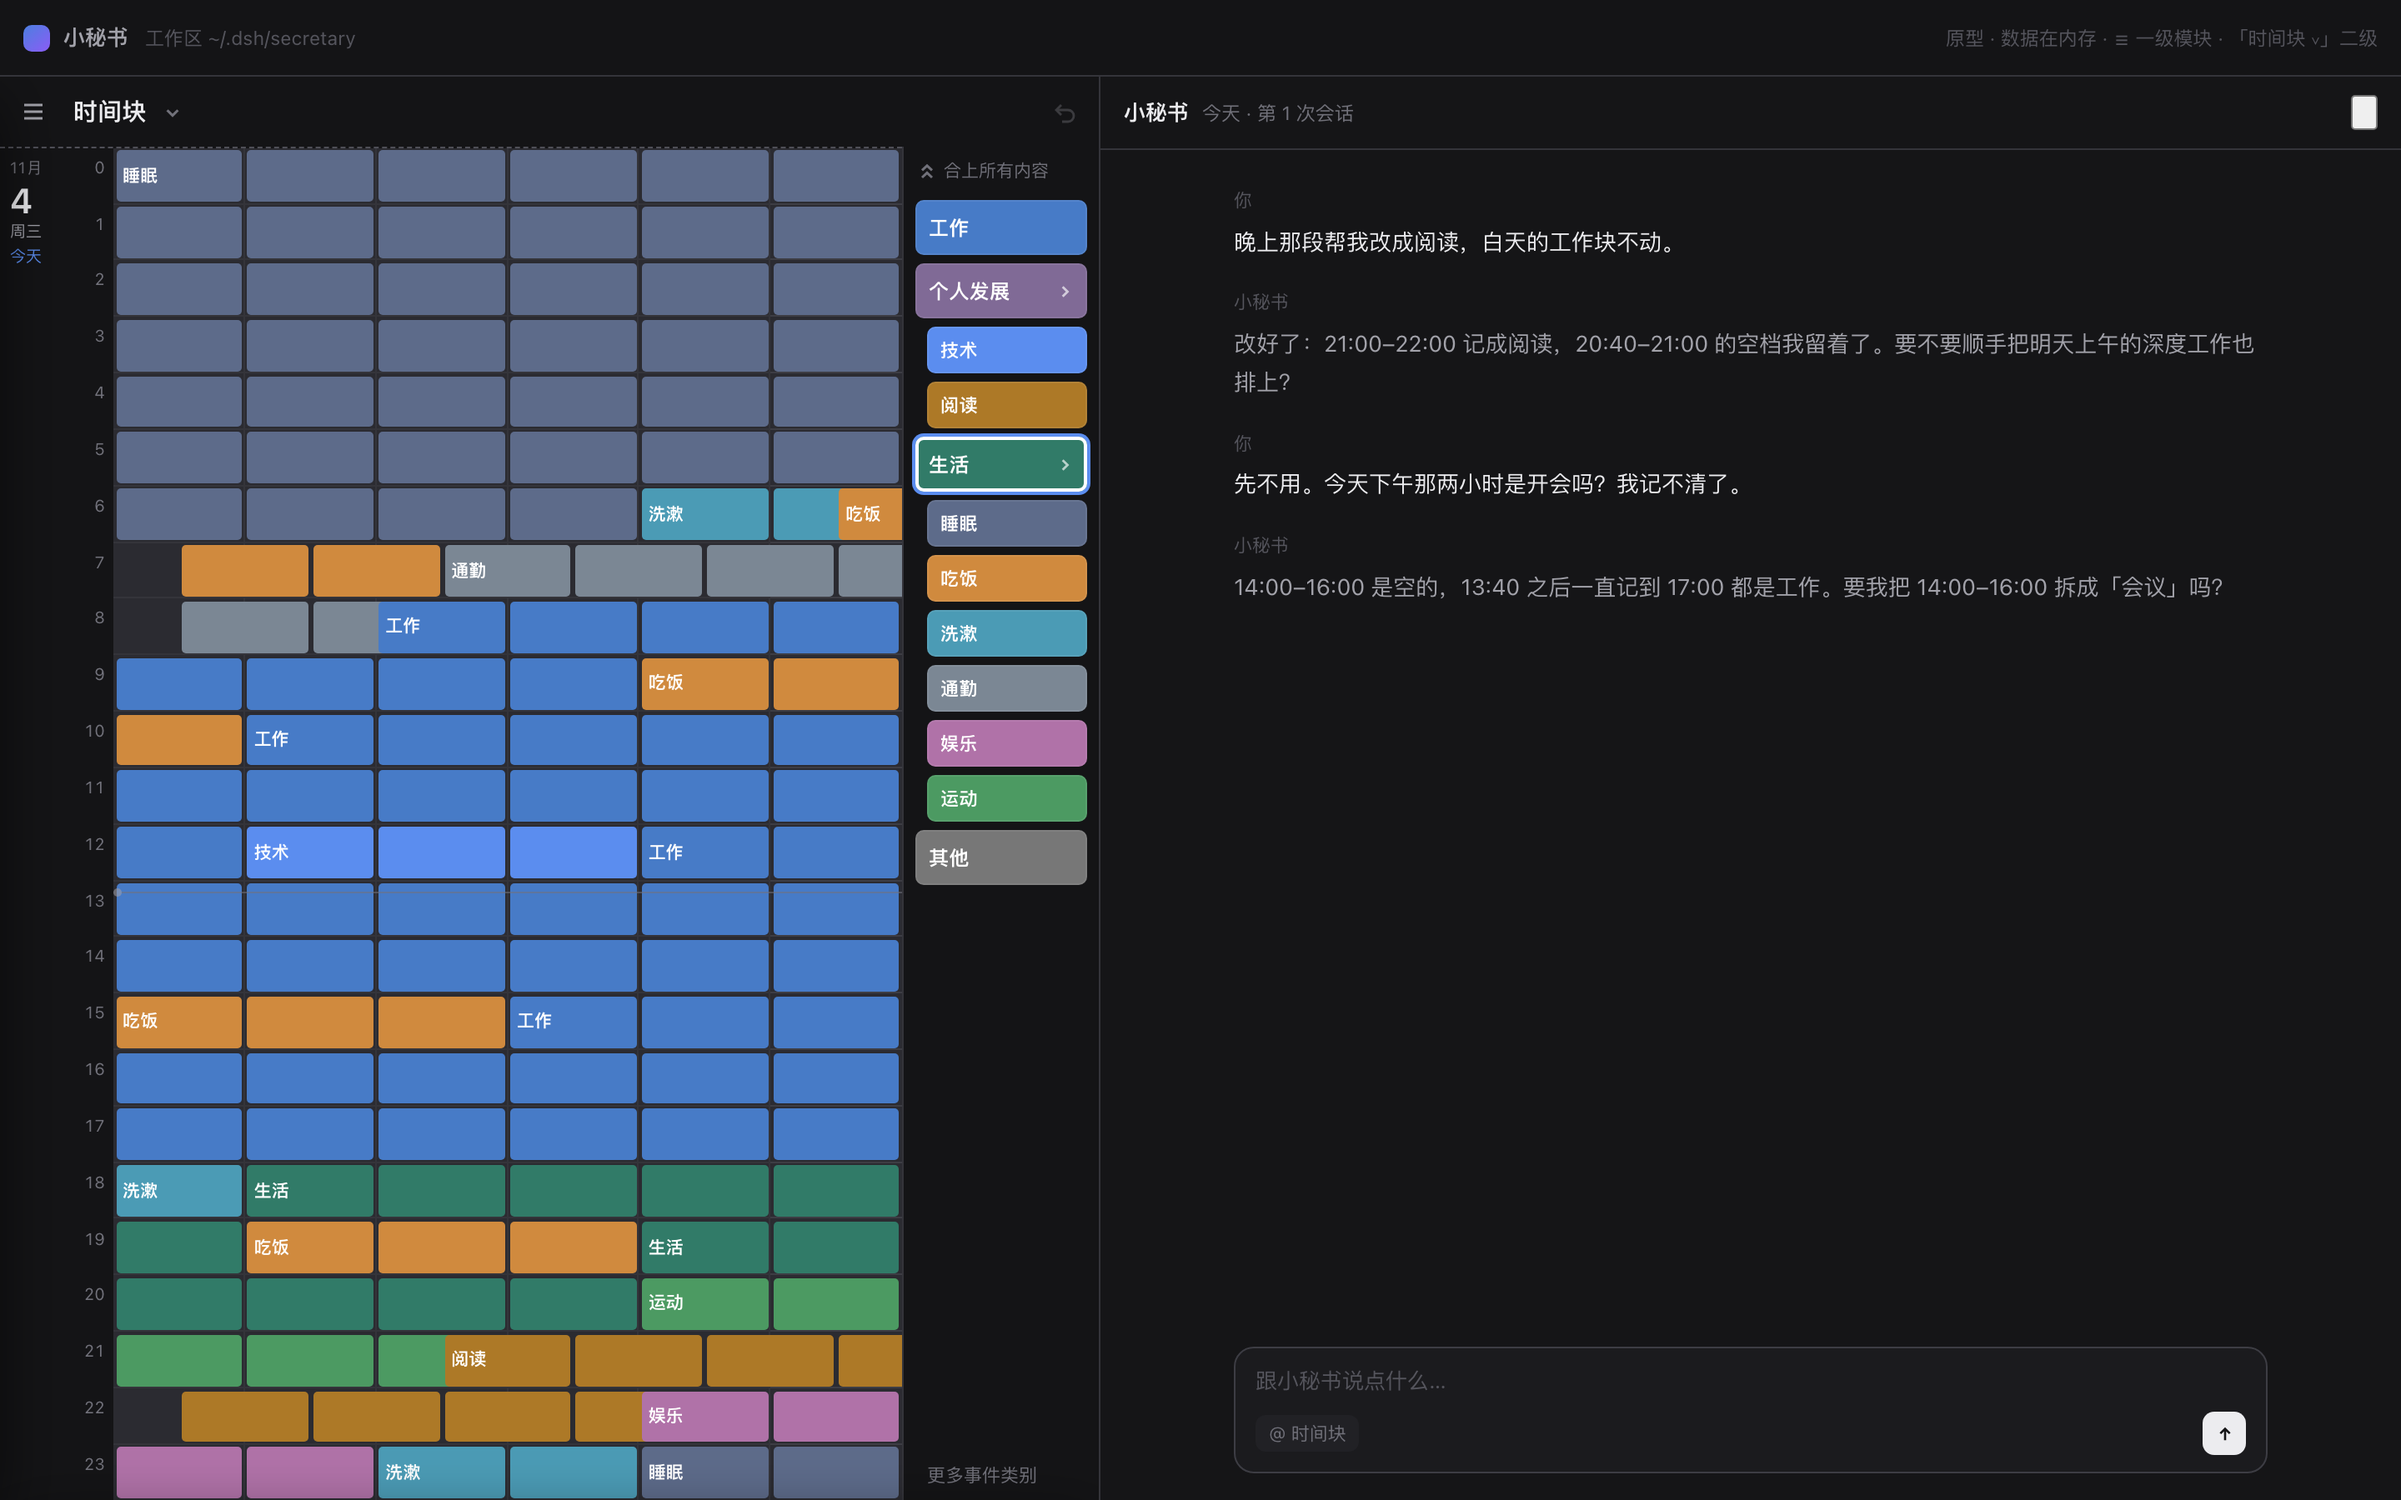
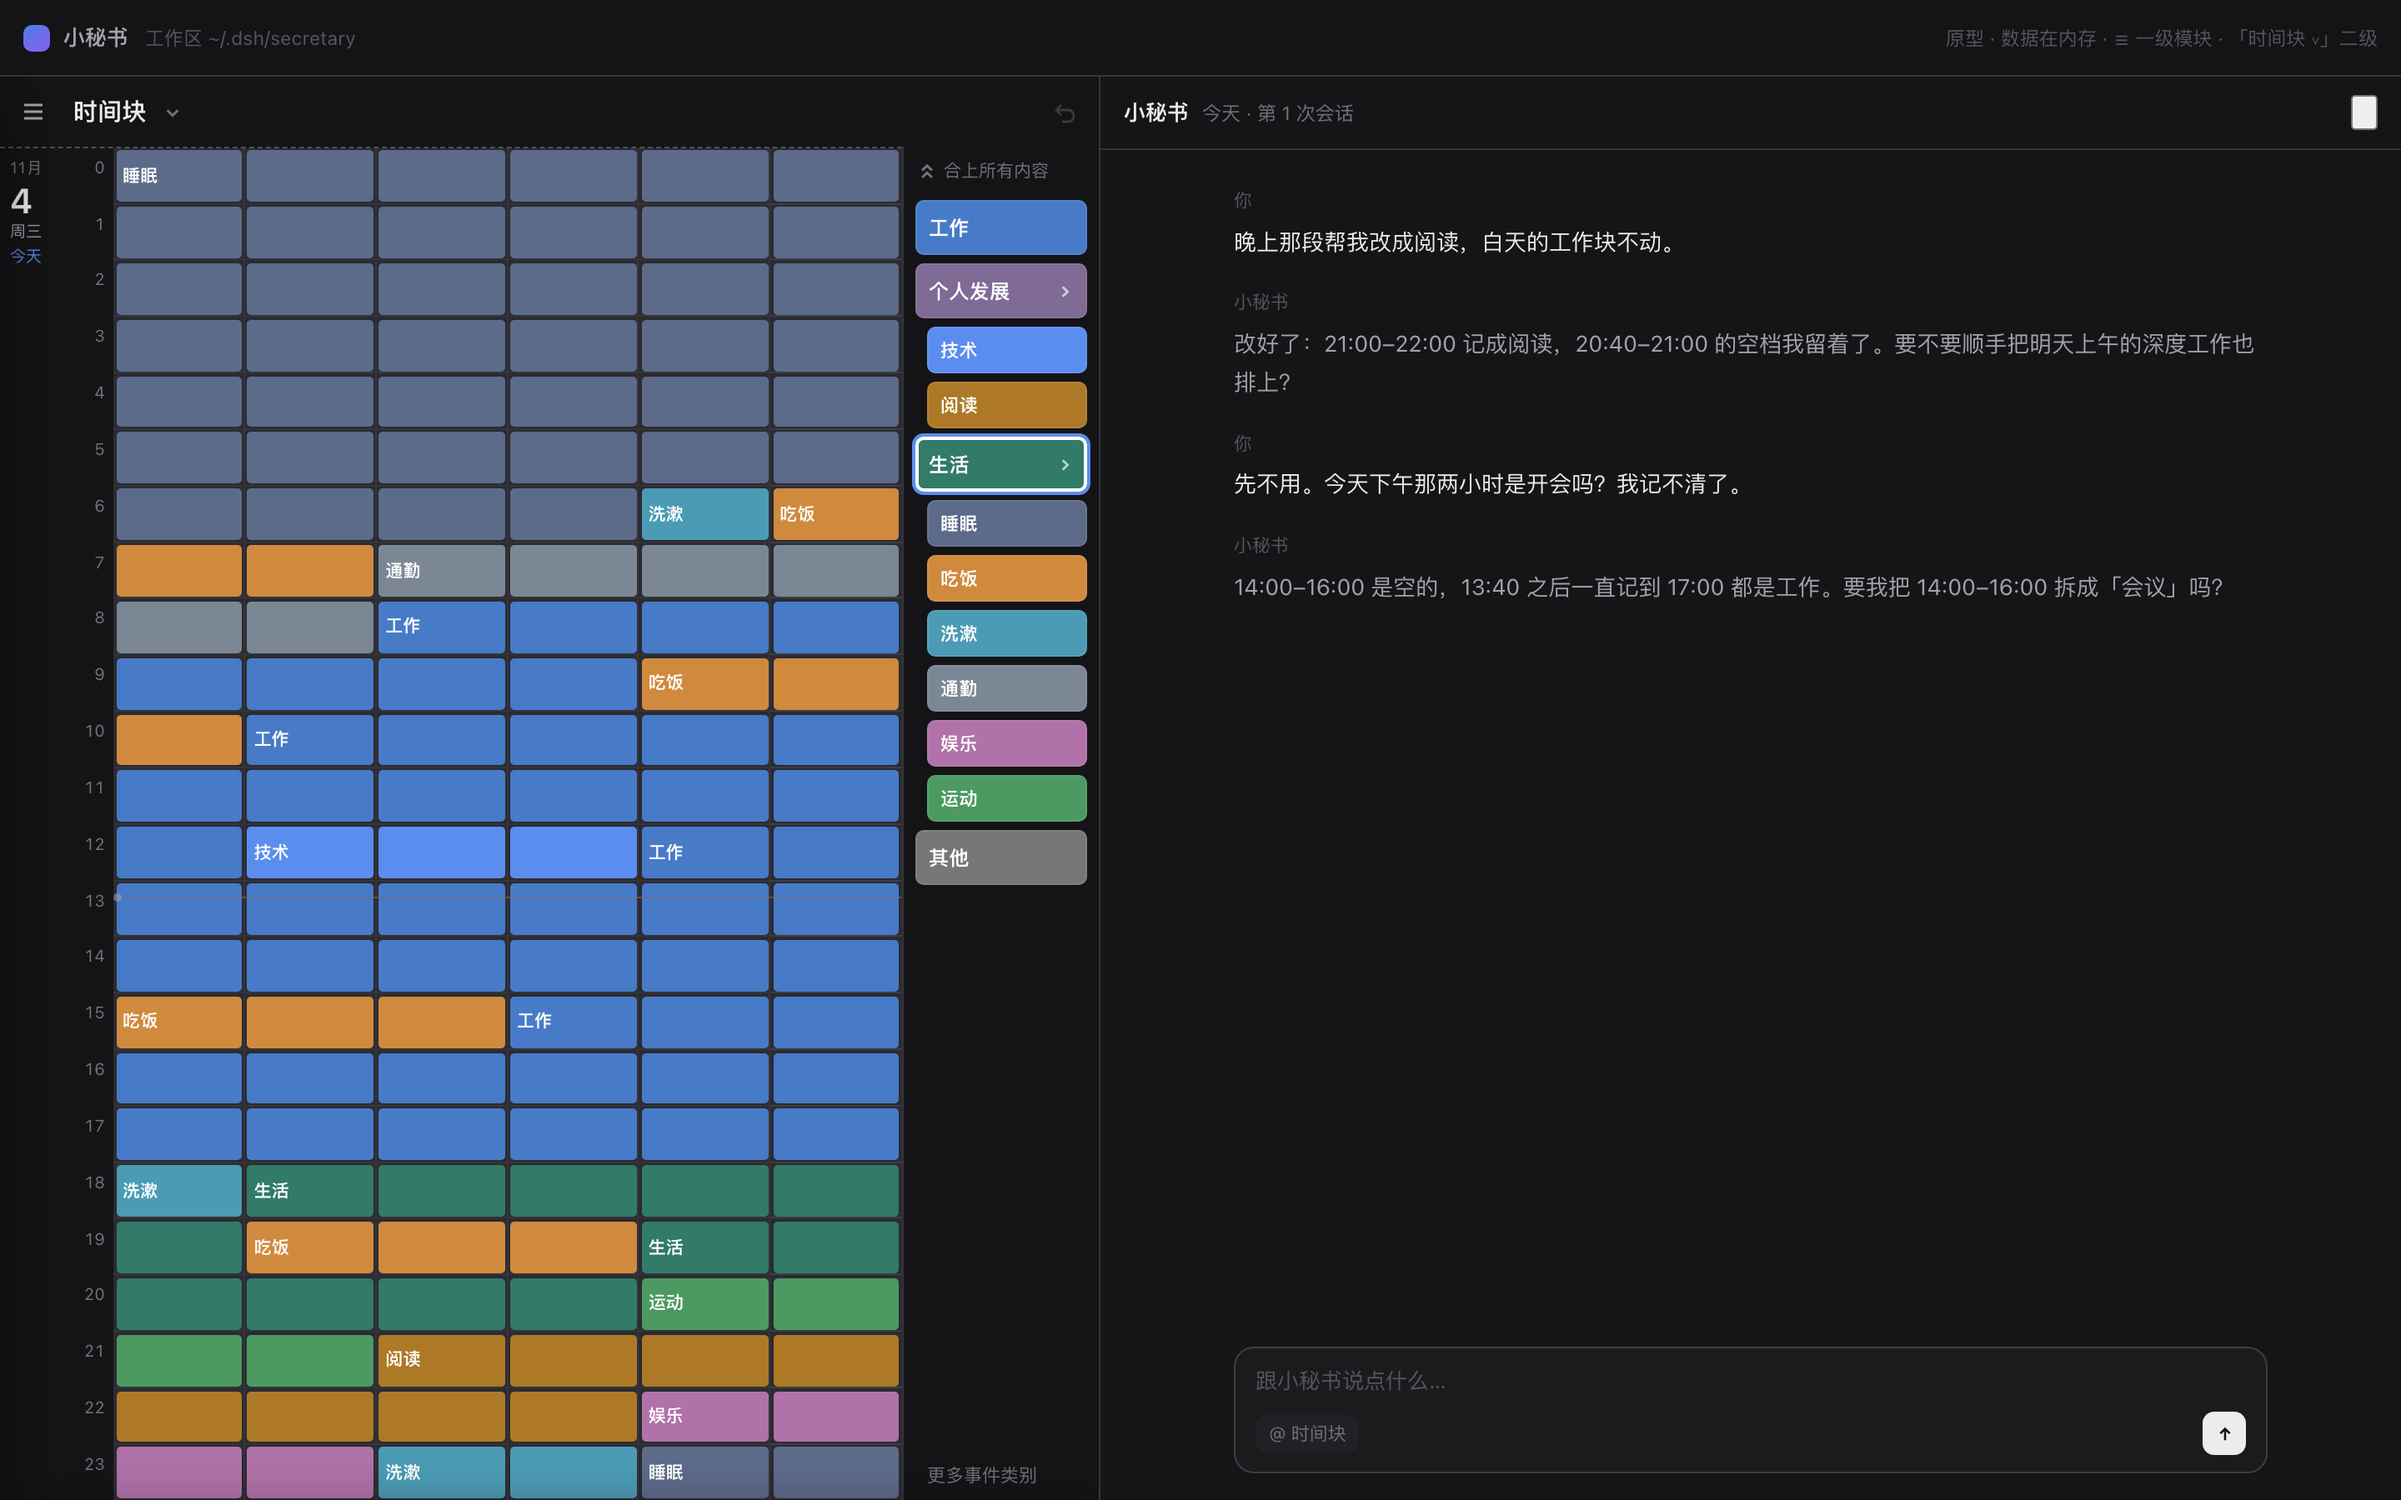
design: snap blocks to whole 10-minute cells so no half cells or split colours

diff --git a/design/time-block-rail.html b/design/time-block-rail.html
@@ -476,7 +476,10 @@ const DAY_LIST = [];
 for (let off = -2; off <= 4; off++) DAY_LIST.push(dayKey(off));
 
 let seq = 500;
-const mk = (day, start, end, tagId, layer = 'actual', note = '') => ({ id: ++seq, day, start, end, tagId, layer, note });
+const snapDown = m => Math.floor(m / RN) * RN;
+const snapUp = m => Math.ceil(m / RN) * RN;
+const mk = (day, start, end, tagId, layer = 'actual', note = '') =>
+  ({ id: ++seq, day, start: snapDown(start), end: snapUp(end), tagId, layer, note });
 
 const state = {
   view: 'time', layer: 'actual', tagId: 5,
@@ -577,7 +580,8 @@ function renderBlocks(layer) {
     if (!dayEl) return;
     const host = dayEl.querySelector('.blocks');
     let first = true;
-    for (let m = r.start; m < r.end; m += RN) {
+    const from = snapDown(r.start), to = snapUp(r.end);
+    for (let m = from; m < to; m += RN) {
       const h = Math.floor(m / 60), q = (m % 60) / RN;
       const el = document.createElement('div');
       el.className = 'blk';
@@ -758,7 +762,7 @@ function assign(tagId) {
     const cur = recordIn(day, min, layer);
     if (cur && cur.tagId === tagId) return;
     if (cur) removeSlot(cur, min);
-    state.records.push({ id: ++seq, day, start: min, end: min + RN, tagId, layer, note: '' });
+    state.records.push({ id: ++seq, day, start: snapDown(min), end: snapUp(min) + RN - RN, tagId, layer, note: '' });
   });
   merge(layer);
   state.selected = new Set();
@@ -904,11 +908,11 @@ function openSheet(id) {
 }
 $('#stepStart').addEventListener('click', () => {
   const r = state.records.find(x => x.id === state.sheetId);
-  if (r && r.end - r.start > RN) { r.start += RN; openSheet(r.id); refresh(); }
+  if (r && r.end - r.start > RN) { r.start = snapDown(r.start + RN); openSheet(r.id); refresh(); }
 });
 $('#stepEnd').addEventListener('click', () => {
   const r = state.records.find(x => x.id === state.sheetId);
-  if (r && r.end + RN <= 1440) { r.end += RN; openSheet(r.id); refresh(); }
+  if (r && r.end + RN <= 1440) { r.end = snapUp(r.end + RN); openSheet(r.id); refresh(); }
 });
 $('#sheetNote').addEventListener('input', e => {
   const r = state.records.find(x => x.id === state.sheetId);

diff --git a/design/time-block-rail-brief.md b/design/time-block-rail-brief.md
@@ -64,6 +64,12 @@
 - 实测：视口 1200 → 46.3px/行；900 → 33.8；760 → 28；640 → 23；520 → 固定 22px + 滚动。每档 `一天高度 == 画布可视高度`。
 - DSH 侧：Web 外壳 `AppFrame` 只有 `min-height: 0`，桌面端主窗口在 `app.asar` 里没找到最小尺寸设置（只有欢迎页/登录页的固定 720×760 等）。所以窗口可被拉得很矮，最小高度由我们自己兜。
 
+## 只画整格（第七轮修正）
+
+原因：数据里的起止时间是任意分钟（06:55、07:25…），而画布是 10 分钟一格，边界就会切出「半个块」，一格还可能被两条记录分成两种颜色。
+
+现在：所有记录对齐到 10 分钟格（起点向下取整、终点向上取整），渲染器只按整格画，几何上不存在分数宽度。审计脚本检查每个块宽度 == 一格宽度，例外数 0。存储仍保留真实时间，画布只负责把它外扩到整格显示。
+
 ## 待你确认
 
 1. **日期位置**：你提到「日期是在右边」，但两张参考图里日期块都在左侧日期列。这一版按参考图放在左上、紧贴格阵。如果你说的是「放到右边」，我把它挪到格阵右侧。
